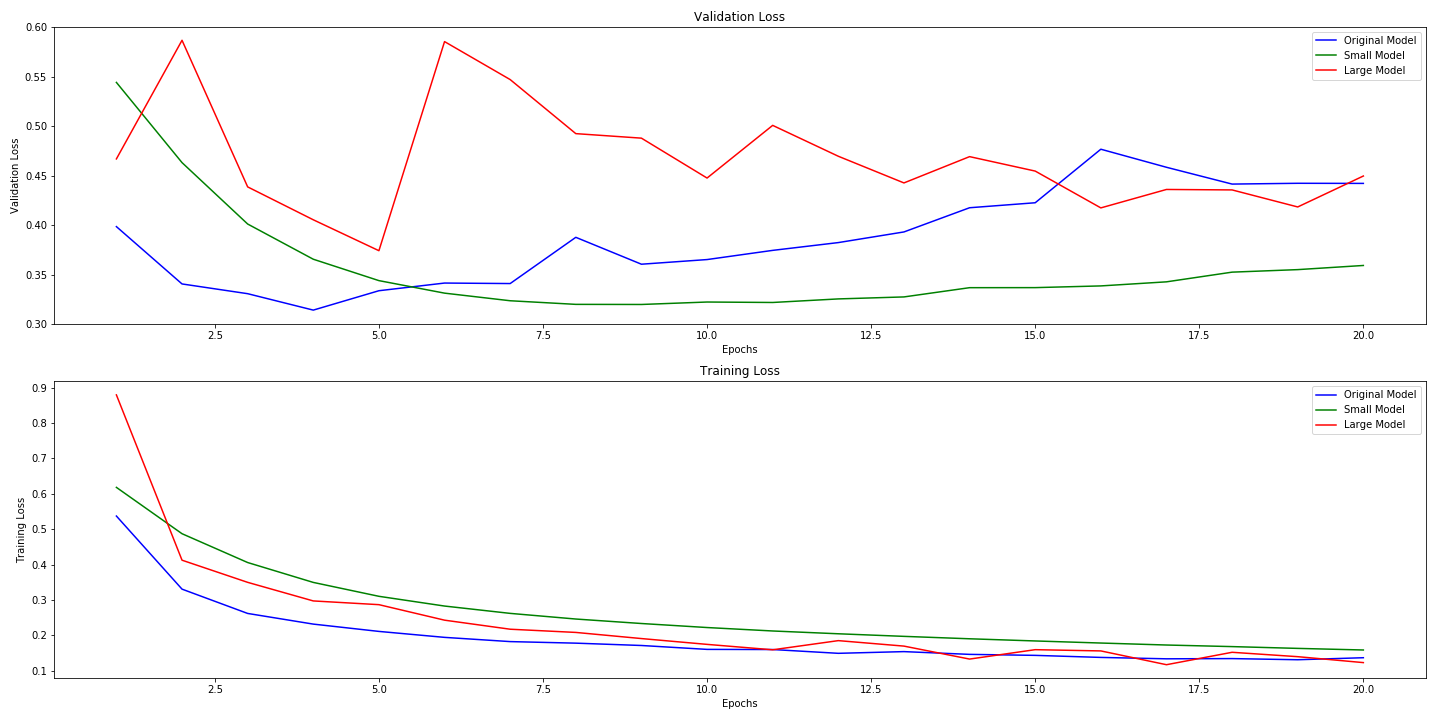
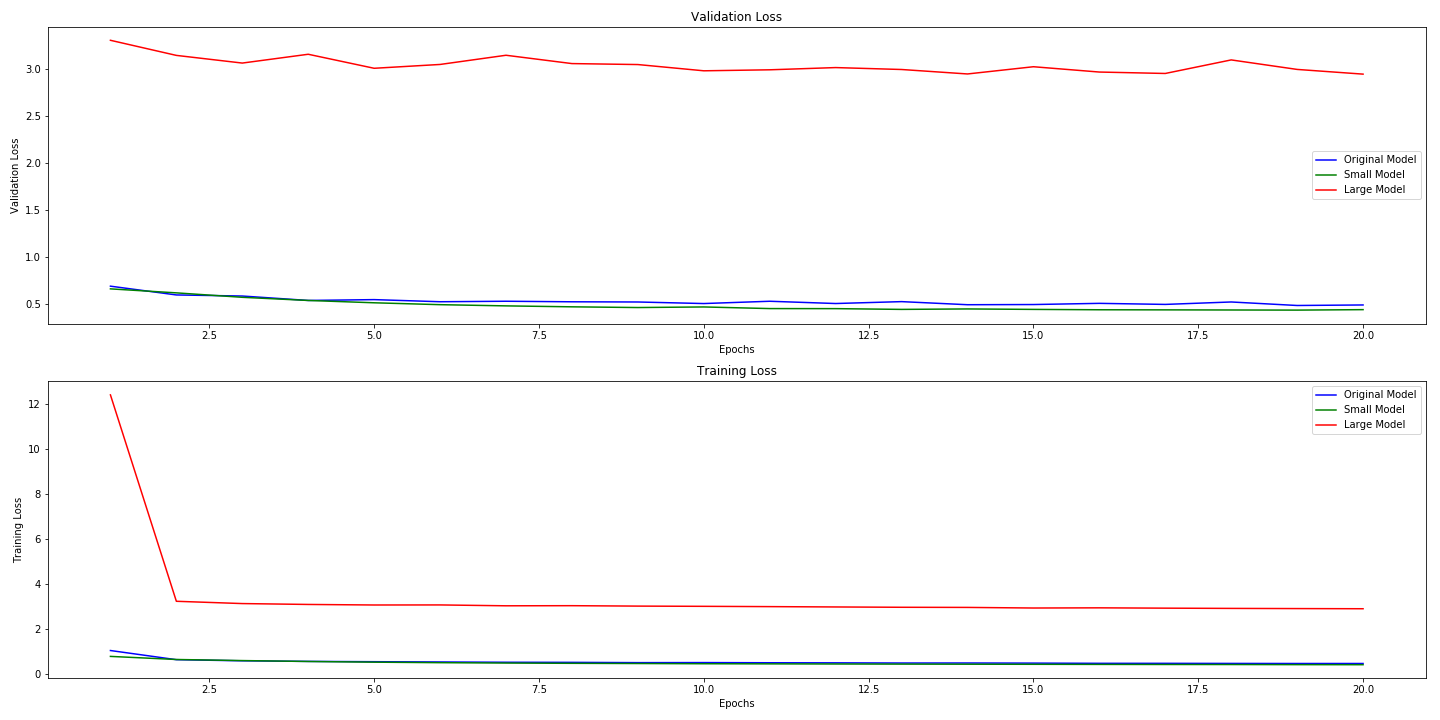
all results in comments on top about regularization accuracy

diff --git a/imdb_sentiment_with regularisation.py b/imdb_sentiment_with regularisation.py
@@ -7,10 +7,10 @@ This is a temporary script file.
 
 #initially run with no L2 regularizer, now with l2 = 0.001
 
-#Without regularization test data evaluation : 16 units [0.8112427774882317, 0.84612] 4 units [0.4251603396511078, 0.86644] 512 units [0.9472465605561435, 0.87]
-#   With regularization test data evaluation : 16 units [0.4665150016975403, 0.86312] 4 units [0.3792718832683563, 0.87156] 512 units [0.47489984335422514, 0.87348] major reduction in loss on test data
-
-
+#Without L2 regularization test data evaluation : 16 units [0.8112427774882317, 0.84612] 4 units [0.4251603396511078, 0.86644] 512 units [0.9472465605561435, 0.87]
+#   With L2 regularization test data evaluation : 16 units [0.4665150016975403, 0.86312] 4 units [0.3792718832683563, 0.87156] 512 units [0.47489984335422514, 0.87348] major reduction in loss on test data
+#   With L1 regularization test data evaluation : 16 units [0.485685515127182, 0.87044] 4 units [0.43256368284225466, 0.86312] 512 units [2.962592507019043, 0.86816] 512 model completely useless, 16 and 4 relatively similar performance and acc 
+#With L1/L2 regularization test data evaluation : 16 units [0.48758635732650757, 0.87032] 4 units [0.437683063287735, 0.86224] 512 units [2.94838287399292, 0.87736] pretty much the same as above with only l1 regularization
 from keras import models
 from keras import layers
 from keras import regularizers
@@ -55,7 +55,7 @@ val_y = train_y[15000:]
 #create model big and small and then compile and run
 for i in range(3):
     model = models.Sequential()
-    model.add(layers.Dense(lyrs[i], kernel_regularizer=regularizers.l2(0.001), activation = 'relu', input_shape = (10000,)))
+    model.add(layers.Dense(lyrs[i], kernel_regularizer=regularizers.l1_l2(l1=0.001, l2=0.001), activation = 'relu', input_shape = (10000,)))
     model.add(layers.Dense(lyrs[i], activation = 'relu'))
     model.add(layers.Dense(1, activation='sigmoid'))
     
